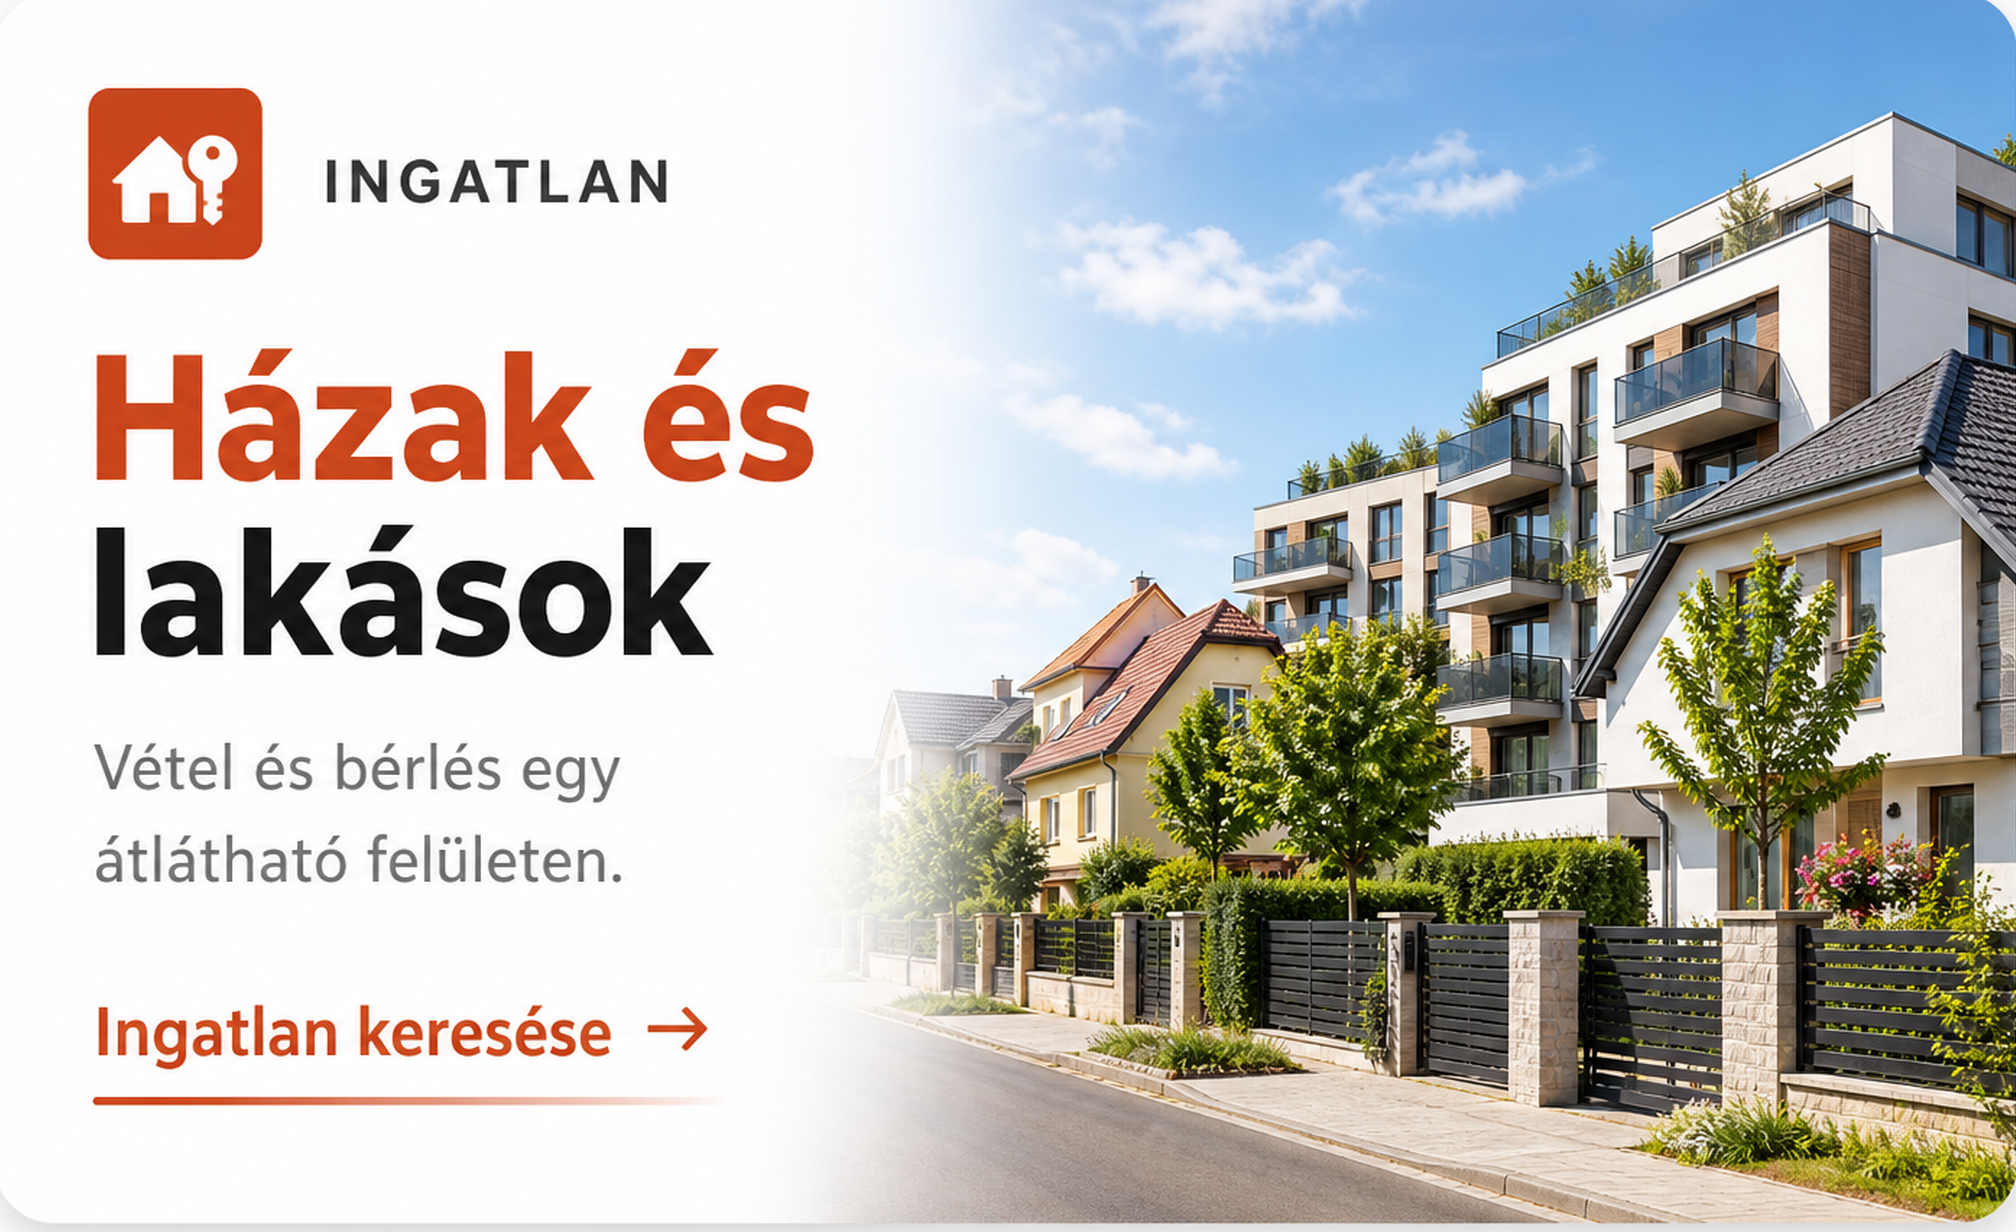
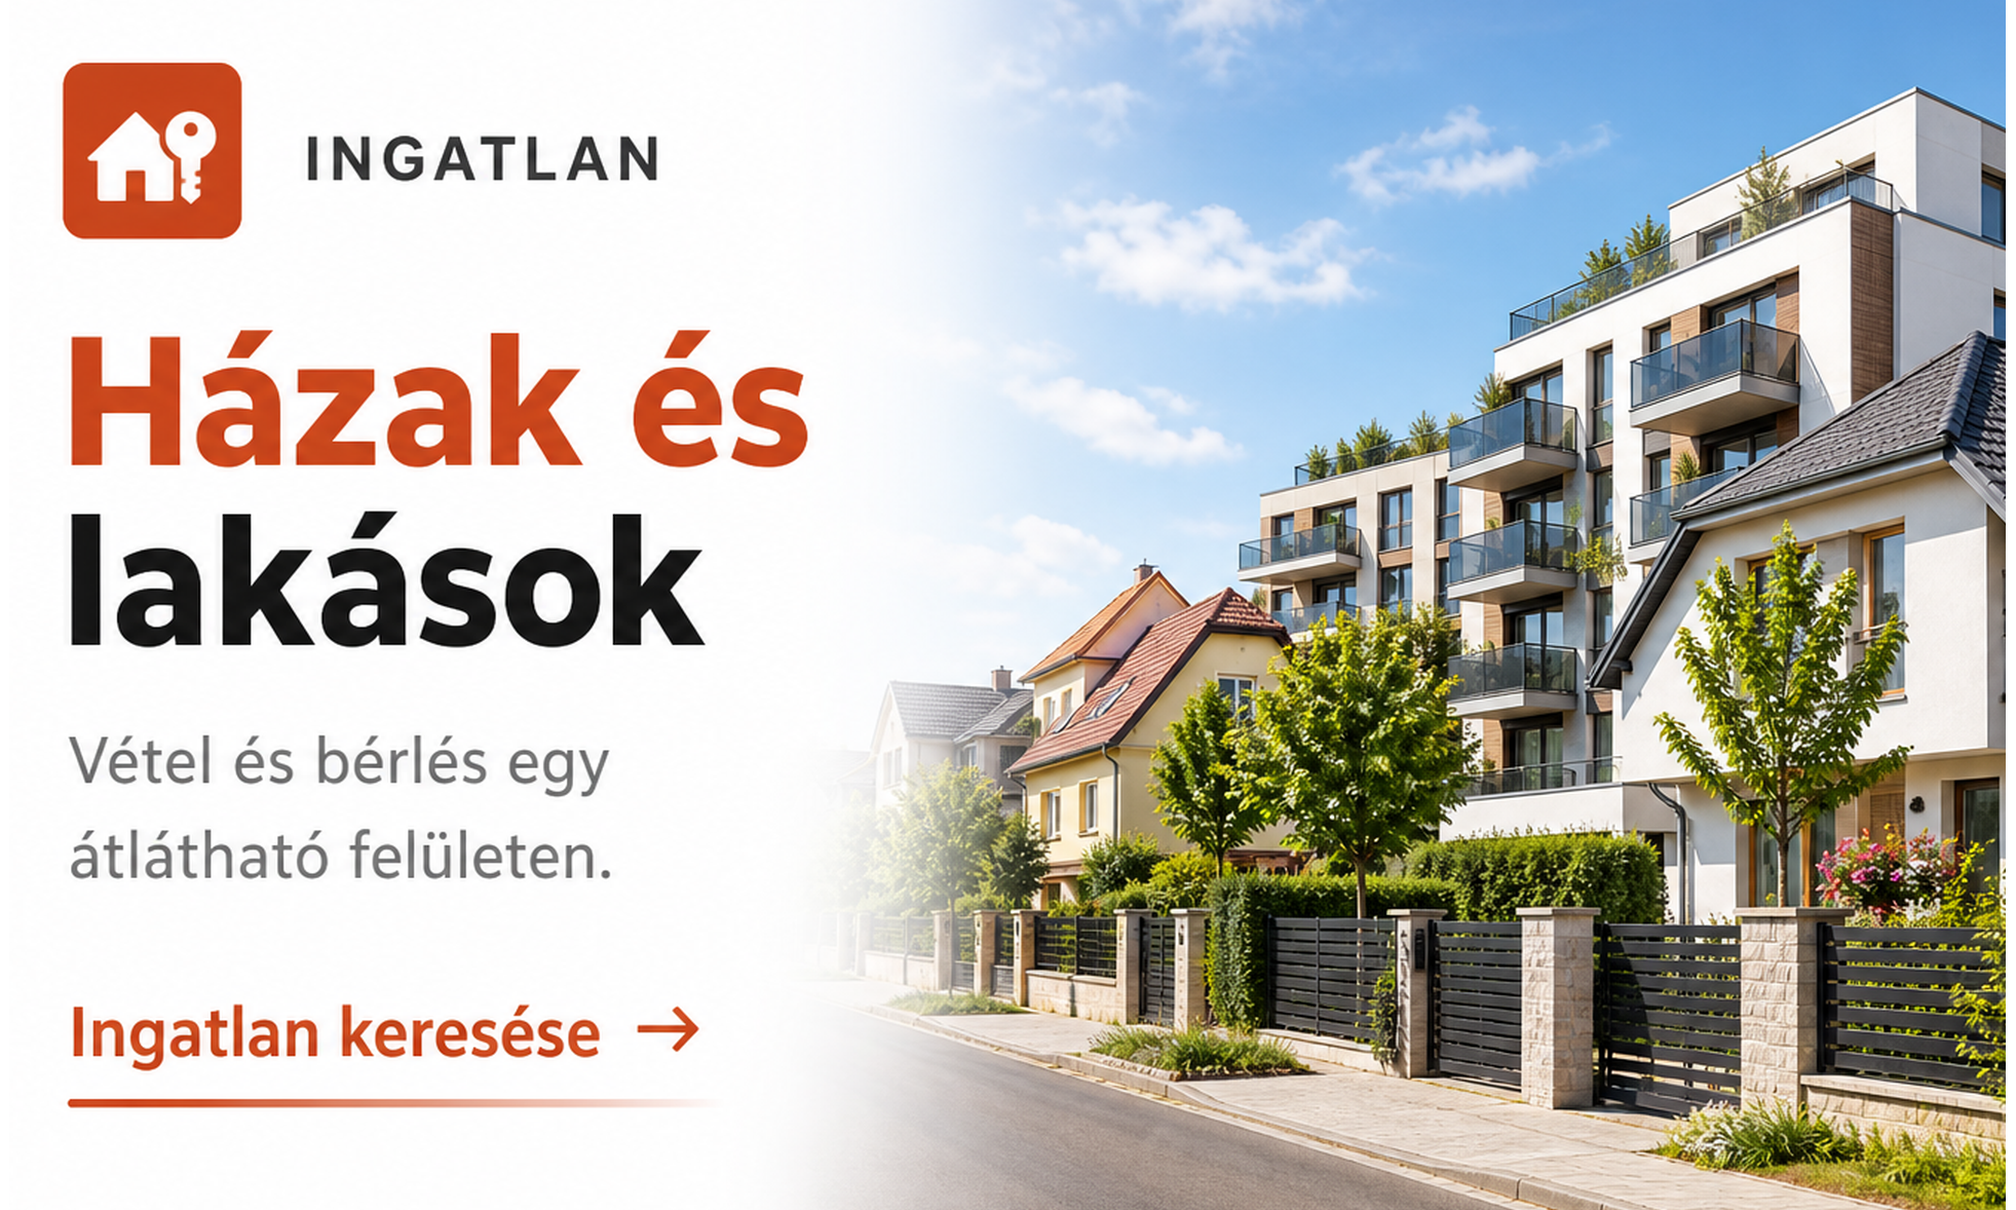
fix(home): promo kártyák aránya — ikonok nem vágódnak le
A 16:9 keret + scale(1.04) levágta a kártyák tetejét. Most 5/3 arány,
scale nélkül, a képek paddinggel igazítva — teljes tartalom látszik.

diff --git a/bymy/public/index.html b/bymy/public/index.html
@@ -59,7 +59,7 @@
       href="https://fonts.googleapis.com/css2?family=DM+Sans:wght@500;600;700;800&display=swap"
       rel="stylesheet"
     />
-    <link rel="stylesheet" href="/css/hub.css?v=hubAutoFill1" />
+    <link rel="stylesheet" href="/css/hub.css?v=hubPromoFit1" />
 
     <link rel="stylesheet" href="/css/site-app.css?v=hdrLogo1" />  </head>
   <body class="hub-page site-page site-app hub-page--feed" data-site-page="hub">
@@ -114,20 +114,20 @@
           <a class="hub-promo hub-promo--fullimg" href="/ingatlan.html" data-promo="ingatlan">
             <img
               class="hub-promo__full"
-              src="/images/hub-ingatlan.png?v=hubIngatlanFill1"
+              src="/images/hub-ingatlan.png?v=hubPromoFit1"
               alt="Ingatlan — Házak és lakások"
               width="2016"
-              height="1232"
+              height="1210"
               decoding="async"
             />
           </a>
           <a class="hub-promo hub-promo--fullimg" href="/auto.html" data-promo="auto">
             <img
               class="hub-promo__full"
-              src="/images/hub-auto-motor.png?v=hubAutoFill1"
+              src="/images/hub-auto-motor.png?v=hubPromoFit1"
               alt="Autó és teherautó — Autók és teherautók"
               width="2016"
-              height="1180"
+              height="1210"
               decoding="async"
             />
           </a>

diff --git a/bymy/public/css/hub.css b/bymy/public/css/hub.css
@@ -472,7 +472,8 @@ body.hub-page:has(.hub-hero--empty) .hub-main {
   grid-template-rows: 1fr;
   align-items: stretch;
   width: 100%;
-  aspect-ratio: 16 / 9;
+  /* 5/3 ≈ a feltöltött kártyaképek aránya — 16:9 + scale levágta az ikonokat */
+  aspect-ratio: 5 / 3;
   min-height: 0;
   margin: 0;
   padding: 0;
@@ -489,12 +490,12 @@ body.hub-page:has(.hub-hero--empty) .hub-main {
   --promo-accent: #e31c23;
 }
 
-/* Teljes kész kártyakép (hub-ingatlan.png) — széltől szélig, a keret clippel */
+/* Teljes kész kártyakép — pontosan kitölti a keretet, tartalom nem vágódik */
 .hub-promo--fullimg {
   display: block;
   position: relative;
   padding: 0;
-  background: #e8e8e8;
+  background: #fff;
 }
 
 .hub-promo--fullimg .hub-promo__full {
@@ -506,9 +507,7 @@ body.hub-page:has(.hub-hero--empty) .hub-main {
   object-fit: cover;
   object-position: center;
   border-radius: 0;
-  /* A PNG-ben sült kerekített fehér sarkok / keret ne látszódjon duplán */
-  transform: scale(1.04);
-  transform-origin: center;
+  transform: none;
 }
 
 .hub-promo:hover {
@@ -747,7 +746,7 @@ body.hub-page:has(.hub-hero--empty) .hub-main {
   }
 
   .hub-promo {
-    aspect-ratio: 16 / 10;
+    aspect-ratio: 5 / 3;
   }
 
   .hub-header-inner {
